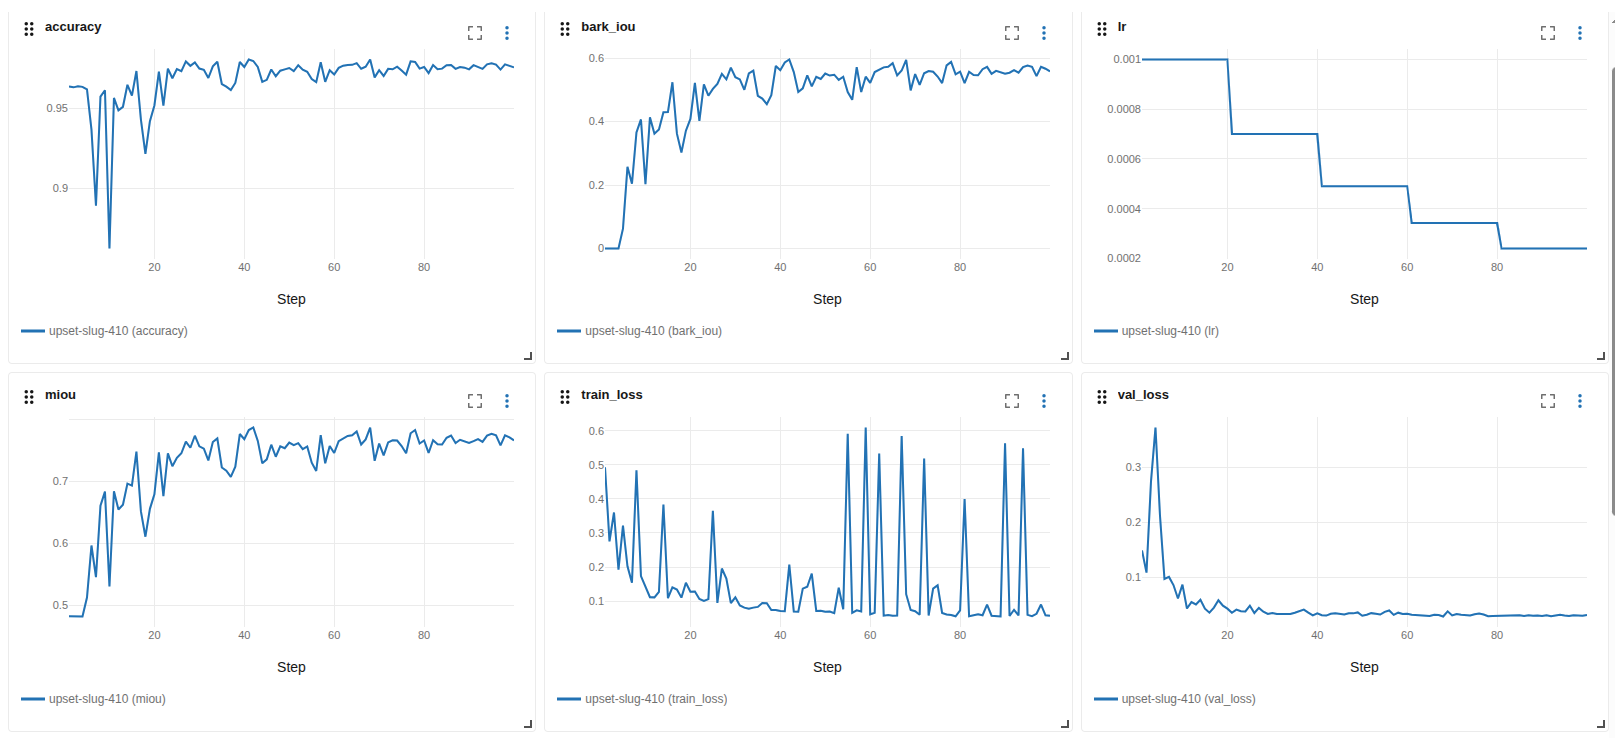
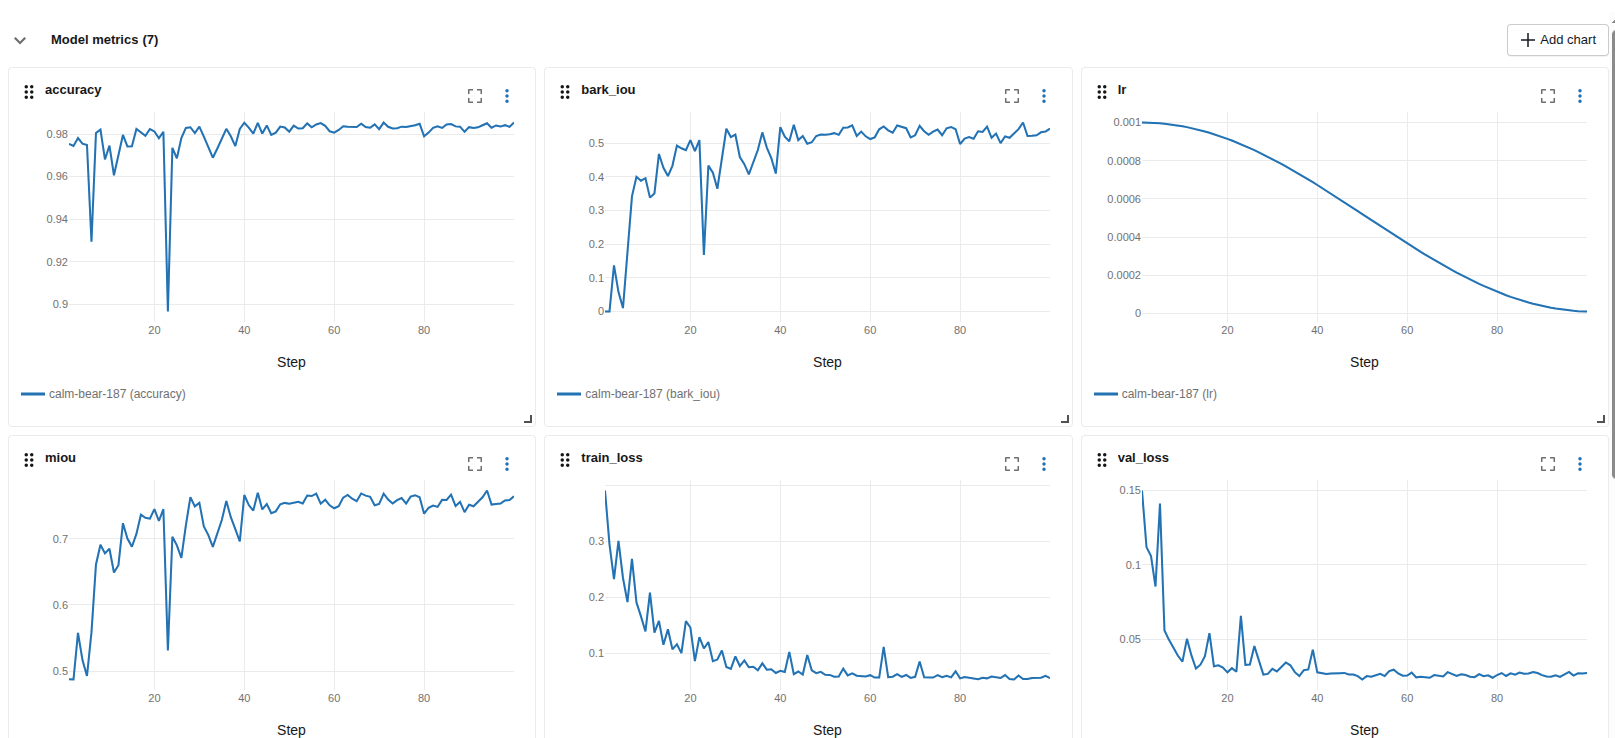
mlflow configuration

diff --git a/training/trainer.py b/training/trainer.py
@@ -145,10 +145,10 @@ def train(cfg, resume=False):
     optimizer = optim.Adam(model.parameters(),
                            lr=cfg.training.learning_rate,
                            weight_decay=cfg.training.weight_decay)
-    scheduler = optim.lr_scheduler.StepLR(
+    scheduler = optim.lr_scheduler.CosineAnnealingLR(
         optimizer,
-        step_size=cfg.training.lr_decay_step,
-        gamma=cfg.training.lr_decay)
+        T_max=cfg.training.epochs,
+        eta_min=1e-5)
 
     start_epoch, ckpt_dir = 1, Path(cfg.paths.checkpoints)
     if resume and (ckpt_dir / "last_checkpoint.pth").exists():

diff --git a/README.md b/README.md
@@ -44,10 +44,10 @@ Best model after 100 epochs (May 2026, 41 labeled logs):
 
 | Metric | Value |
 |---|---|
-| Best mIoU | **0.787** (epoch 42) |
-| Bark IoU | **0.595** |
-| Accuracy | **0.979** |
-| Training time | ~103 min (CPU) |
+| Best mIoU | **0.773** (epoch 94) |
+| Bark IoU | **0.561** |
+| Accuracy | **0.985** |
+| Training time | ~138 min (CPU) |
 
 <img src="docs/images/mlflow_run.png" width="700" alt="MLflow run — bark-segmentation metrics"/>
 
